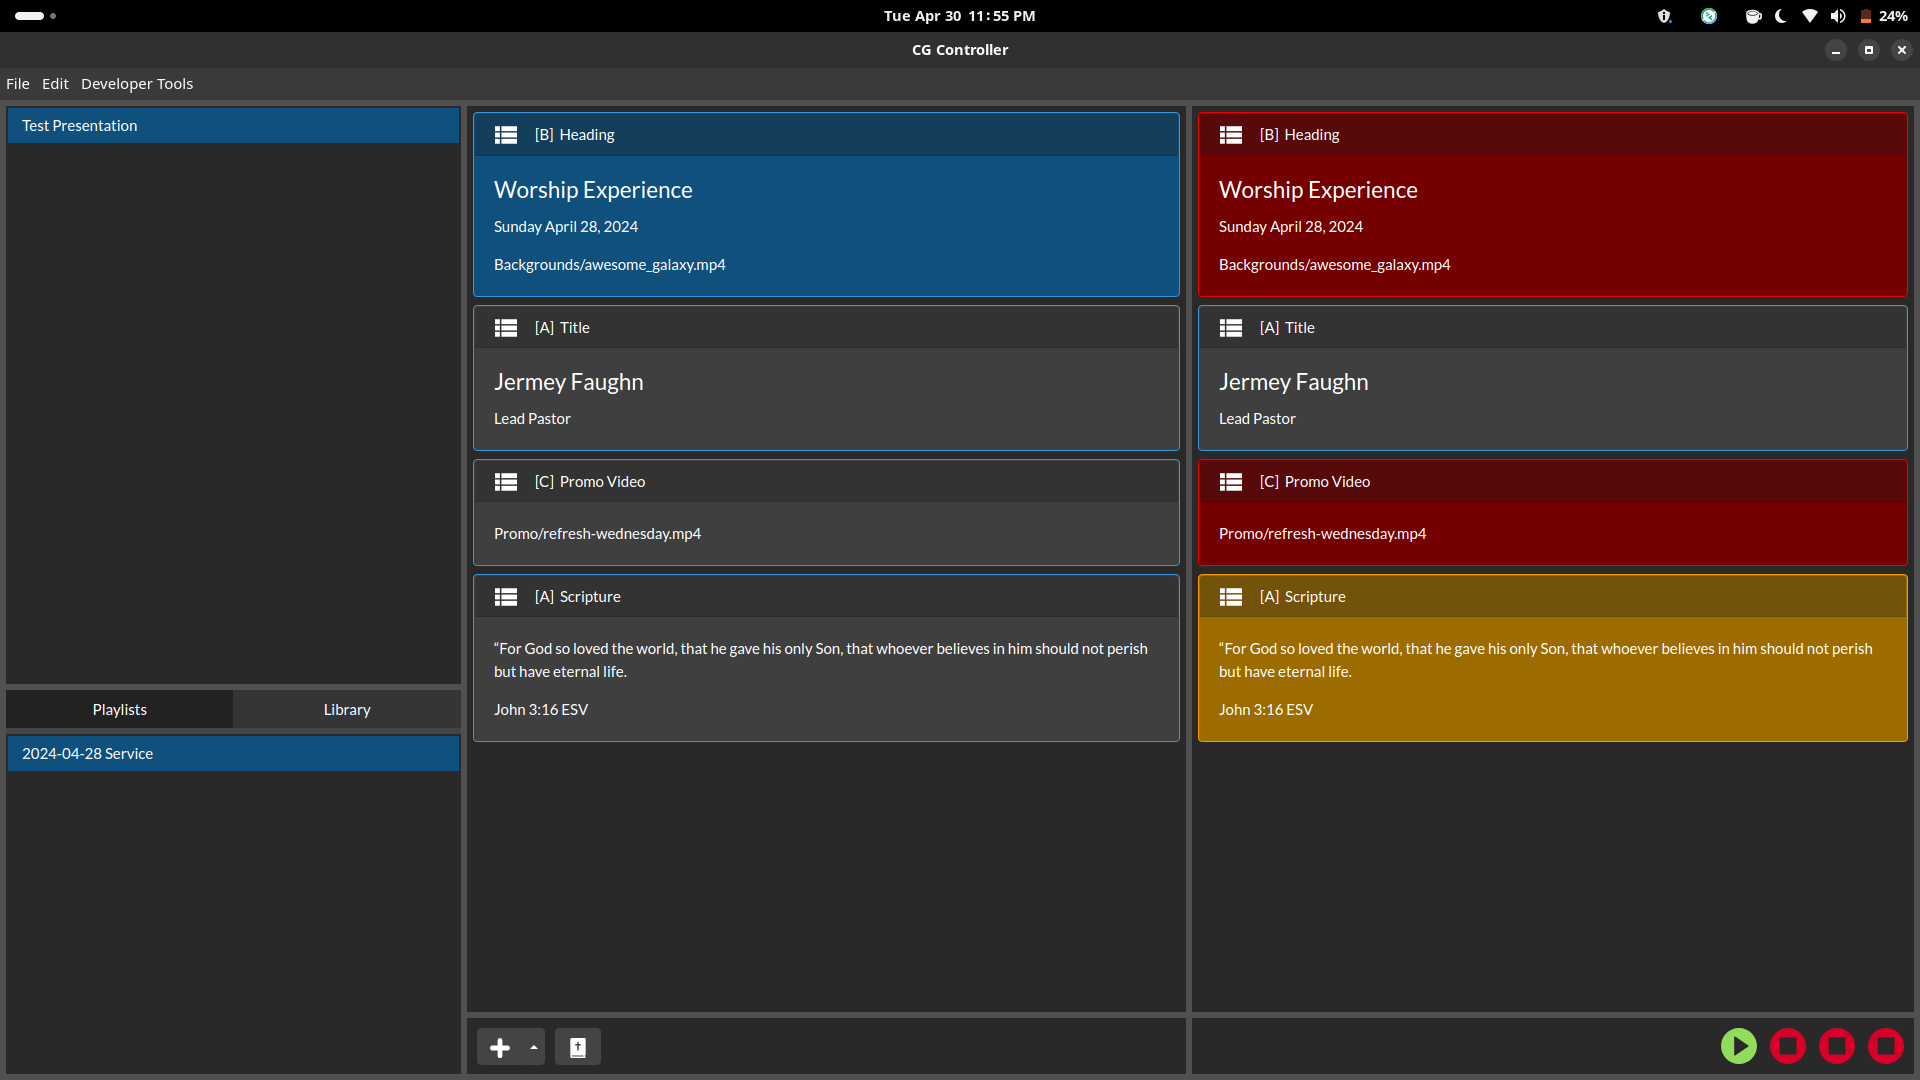
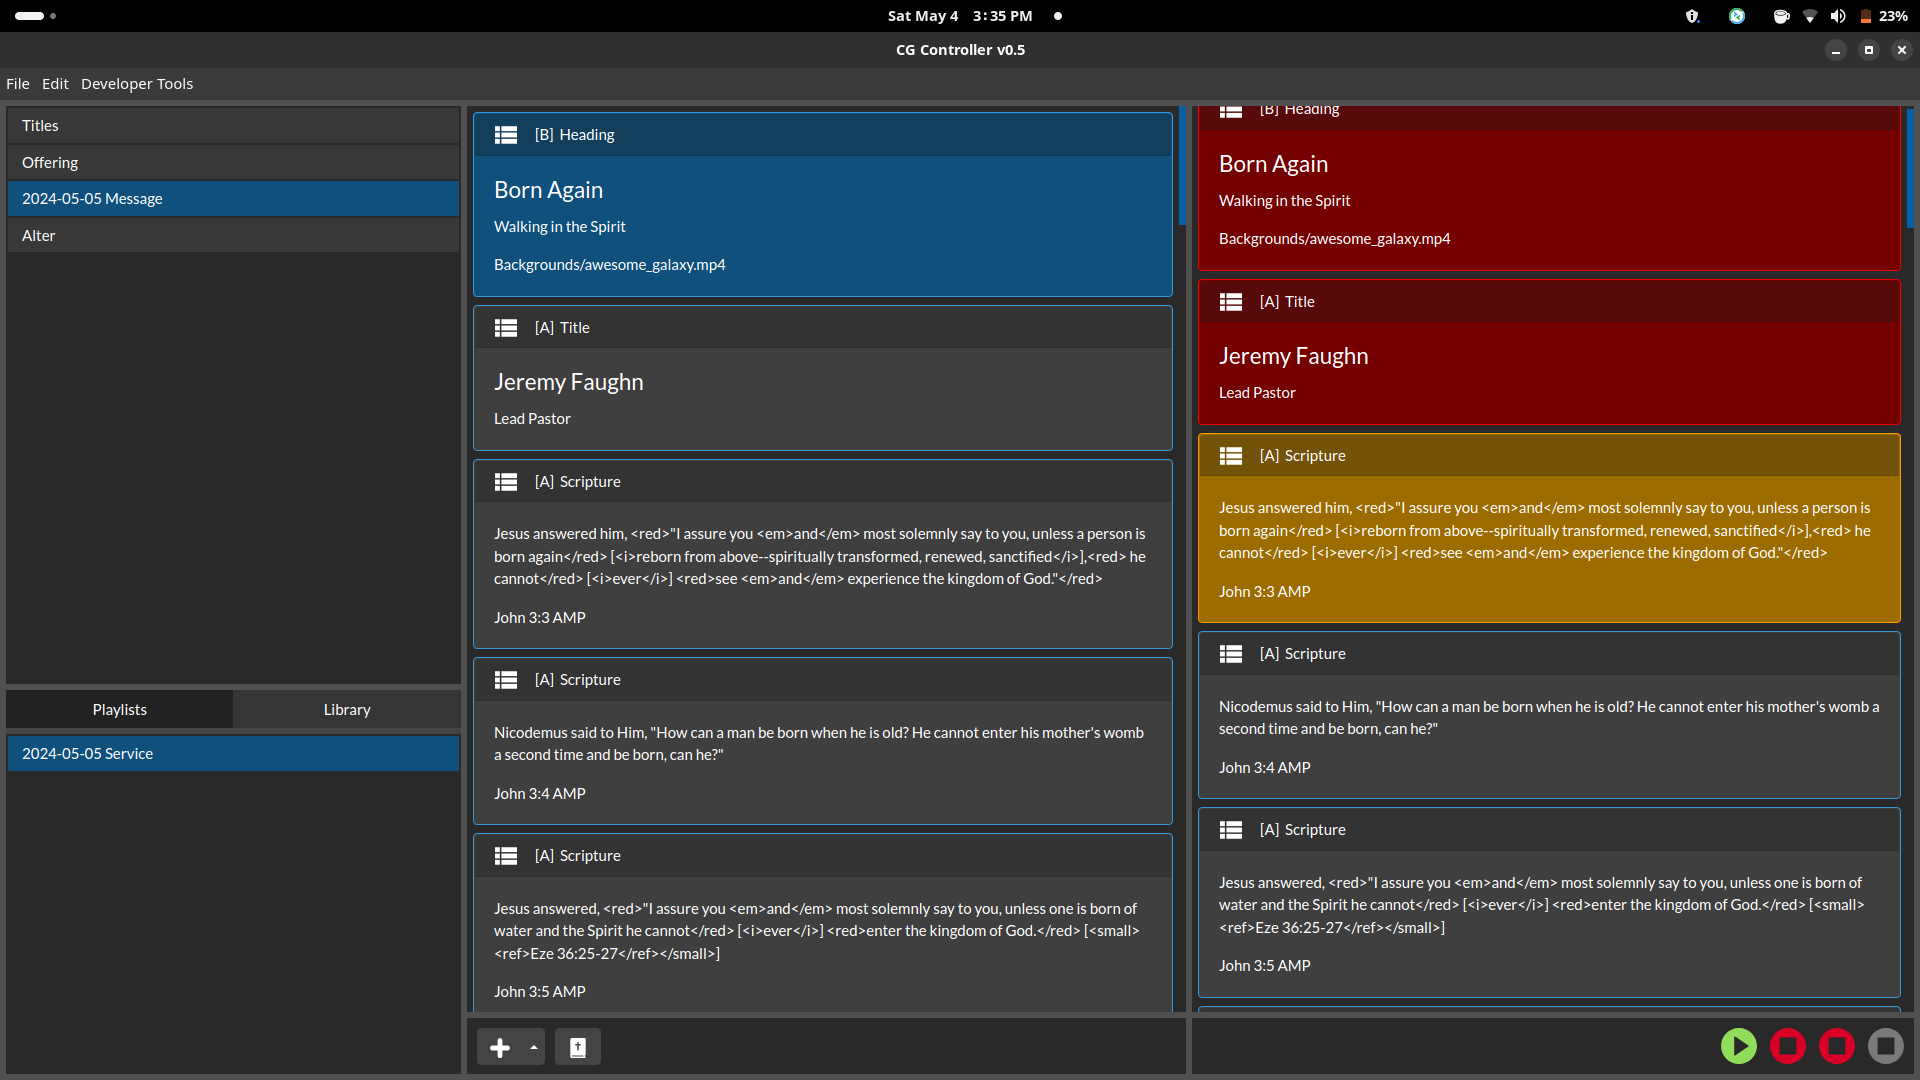
updated screenshots

diff --git a/html/mainWindow.html b/html/mainWindow.html
@@ -2,7 +2,7 @@
 <html>
   <head>
     <meta charset="UTF-8">
-    <title>CG Controller v0.4</title>
+    <title>CG Controller v0.5</title>
 
     
 
